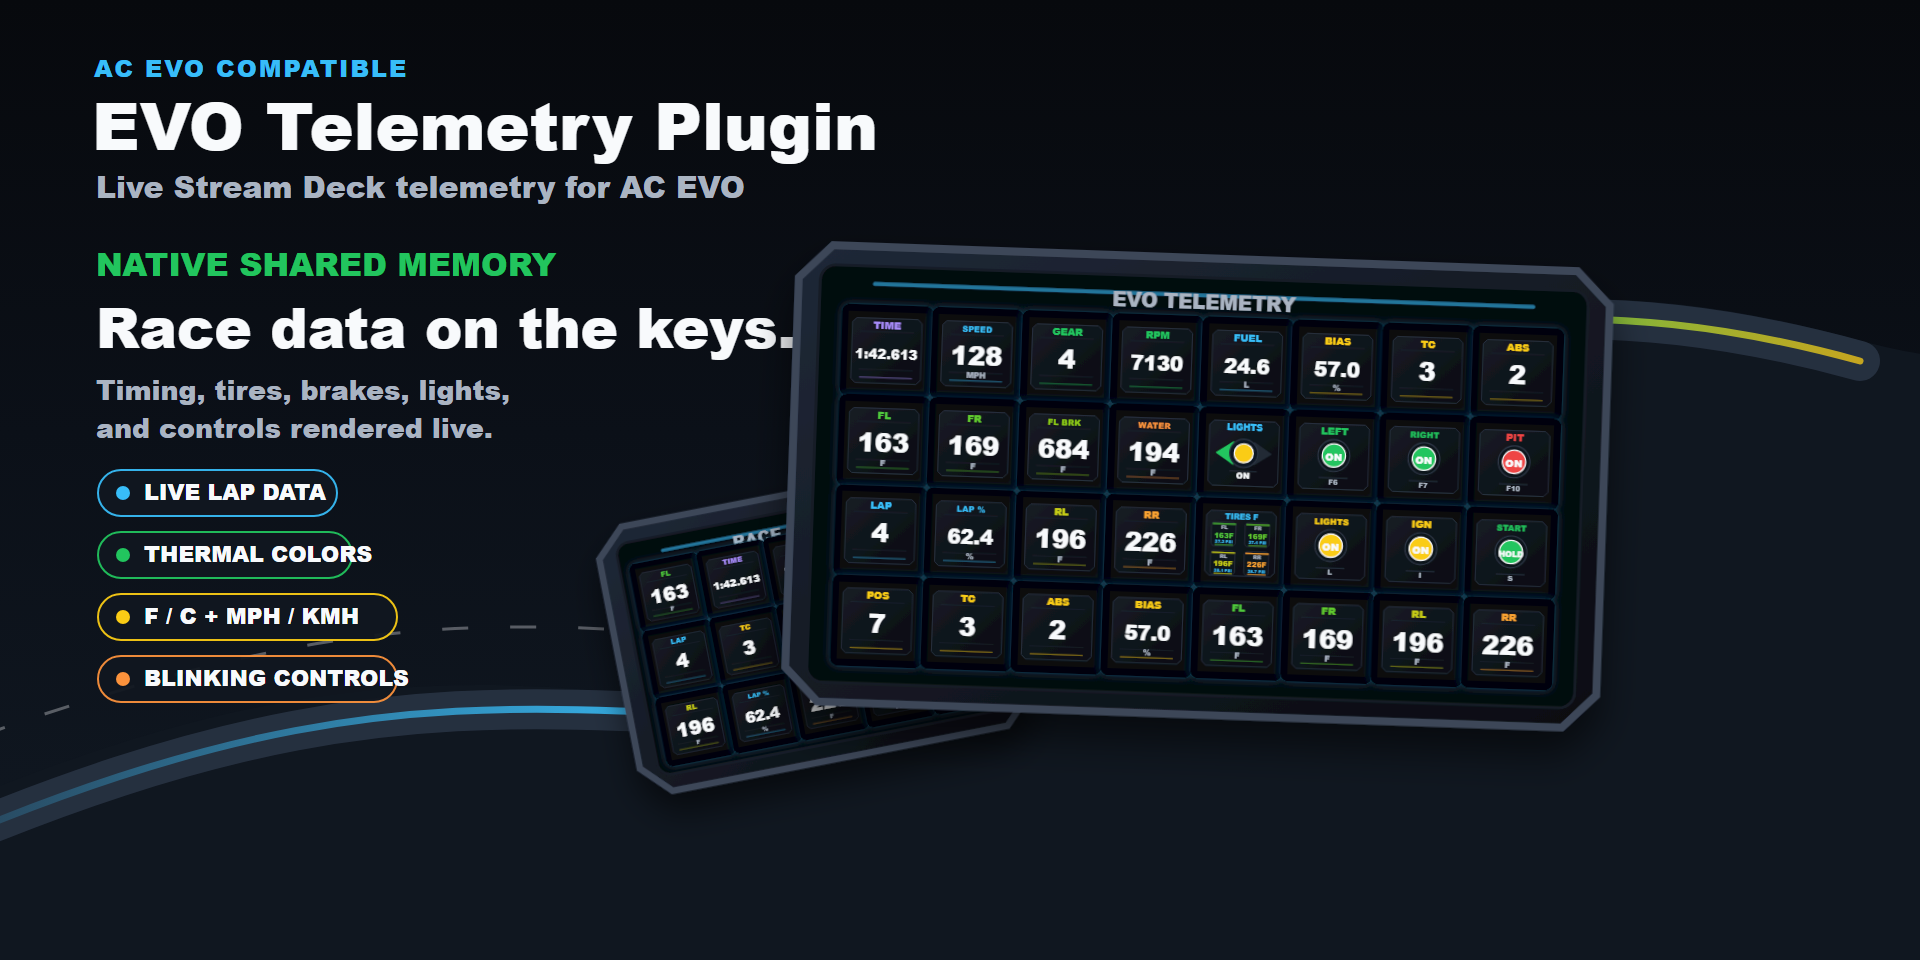
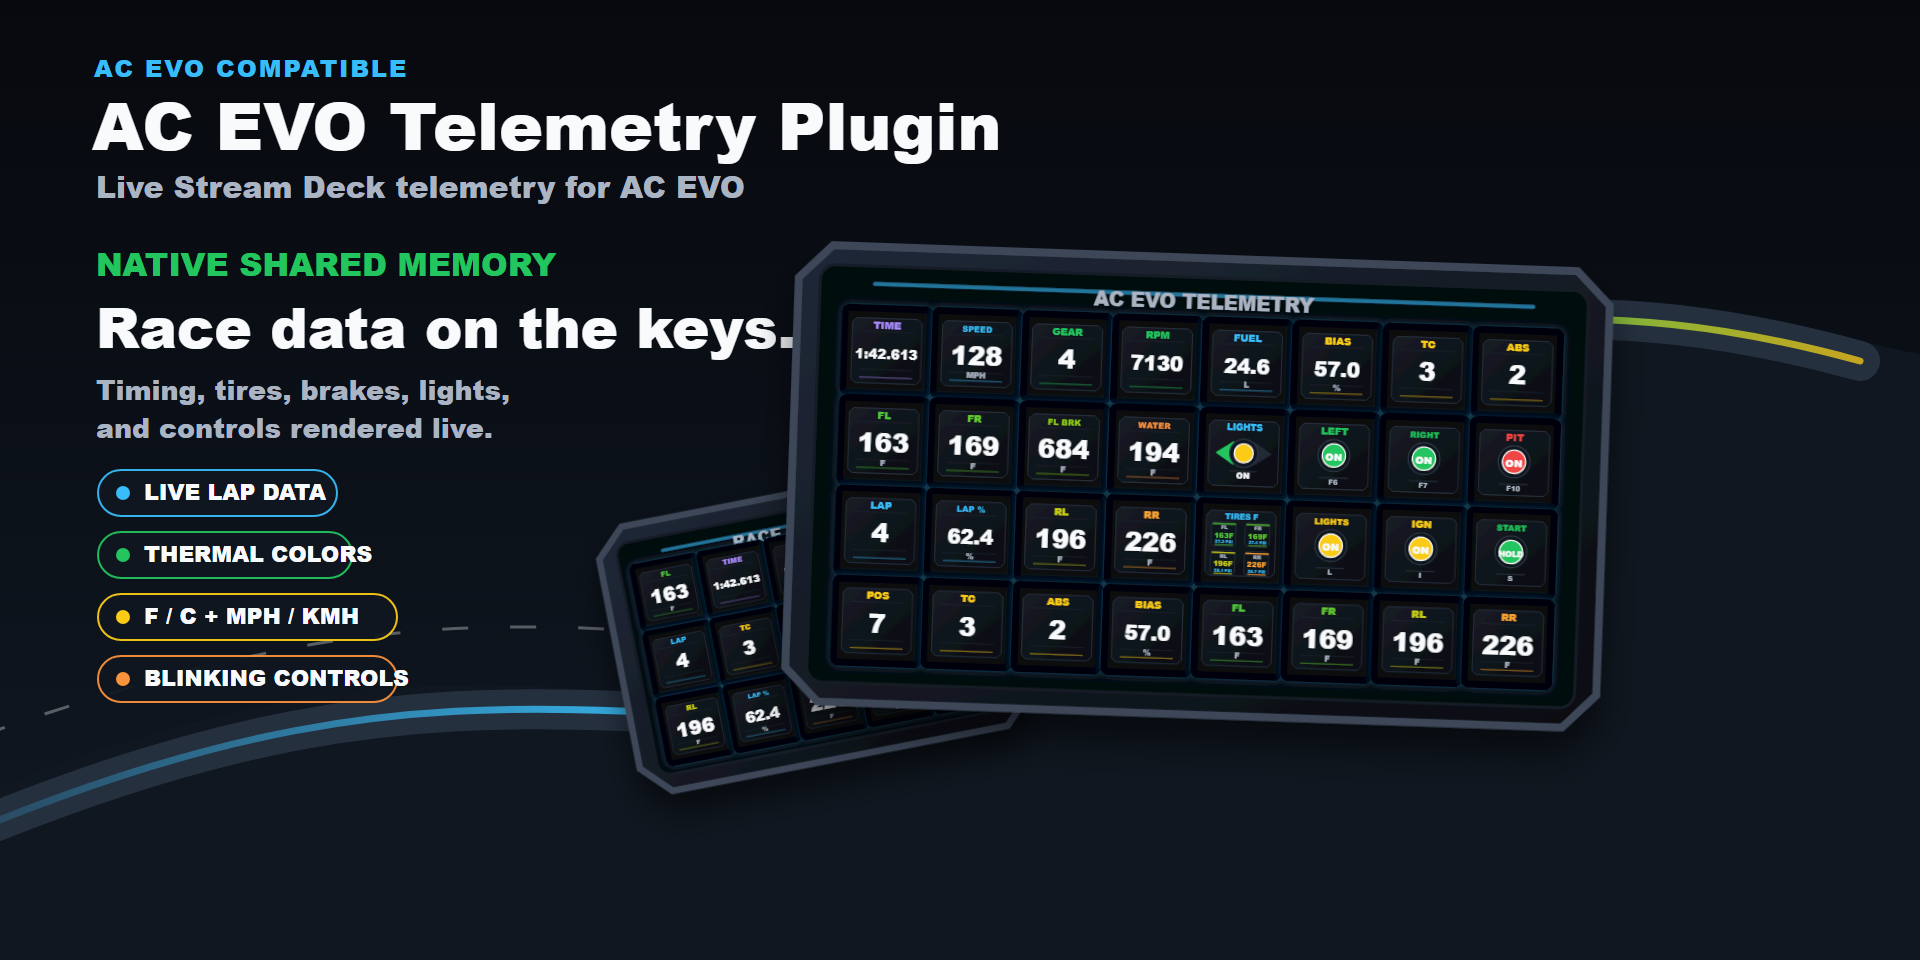
Rename support site to AC EVO Telemetry Plugin

Changed region(s): [[0.0312, 0.0938, 0.5312, 0.1875], [0.5625, 0.2812, 0.6875, 0.3438]]

diff --git a/index.html b/index.html
@@ -3,8 +3,8 @@
   <head>
     <meta charset="utf-8">
     <meta name="viewport" content="width=device-width, initial-scale=1">
-    <title>EVO Telemetry Plugin Support</title>
-    <meta name="description" content="Support, setup, privacy, and troubleshooting for EVO Telemetry Plugin, an unofficial Stream Deck plugin for AC EVO (Assetto Corsa EVO).">
+    <title>AC EVO Telemetry Plugin Support</title>
+    <meta name="description" content="Support, setup, privacy, and troubleshooting for AC EVO Telemetry Plugin, an unofficial Stream Deck plugin for AC EVO (Assetto Corsa EVO).">
     <style>
       :root {
         color-scheme: dark;
@@ -348,10 +348,10 @@
   <body>
     <div class="topbar">
       <div class="wrap">
-        <a class="brand" href="#top" aria-label="EVO Telemetry Plugin Support home">
+        <a class="brand" href="#top" aria-label="AC EVO Telemetry Plugin Support home">
           <img src="assets/app-icon.png" alt="">
           <span>
-            <strong>EVO Telemetry Plugin</strong>
+            <strong>AC EVO Telemetry Plugin</strong>
             <span>Unofficial Stream Deck support</span>
           </span>
         </a>
@@ -369,7 +369,7 @@
       <div class="wrap hero">
         <div>
           <p class="eyebrow">Community plugin for sim racing telemetry</p>
-          <h1>EVO Telemetry Plugin Support</h1>
+          <h1>AC EVO Telemetry Plugin Support</h1>
           <p class="lead">Support, setup, and troubleshooting for an unofficial Stream Deck plugin that reads AC EVO shared-memory telemetry locally on Windows.</p>
           <div class="hero-actions">
             <a class="button primary" href="https://github.com/kmackinley/acevo-streamdeck-plugin-support/issues">Open an Issue</a>
@@ -512,7 +512,7 @@
 
     <footer>
       <div class="wrap">
-        EVO Telemetry Plugin is an unofficial community plugin and is not affiliated with or endorsed by Kunos Simulazioni, 505 Games, Corsair, or Elgato. Assetto Corsa EVO and Stream Deck are referenced only to describe compatibility.
+        AC EVO Telemetry Plugin is an unofficial community plugin and is not affiliated with or endorsed by Kunos Simulazioni, 505 Games, Corsair, or Elgato. Assetto Corsa EVO and Stream Deck are referenced only to describe compatibility.
       </div>
     </footer>
   </body>

diff --git a/README.md b/README.md
@@ -1,5 +1,5 @@
-# EVO Telemetry Plugin Support
+# AC EVO Telemetry Plugin Support
 
-Public support site for EVO Telemetry Plugin, an unofficial Stream Deck plugin for Assetto Corsa EVO.
+Public support site for AC EVO Telemetry Plugin, an unofficial Stream Deck plugin for AC EVO (Assetto Corsa EVO).
 
 Published site: https://kmackinley.github.io/acevo-streamdeck-plugin-support/